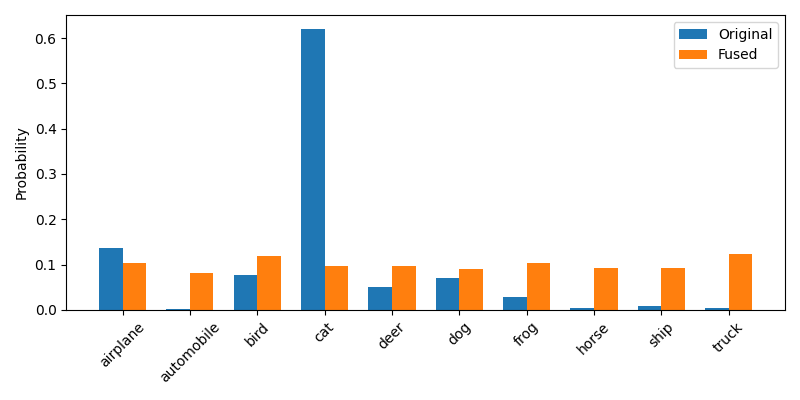
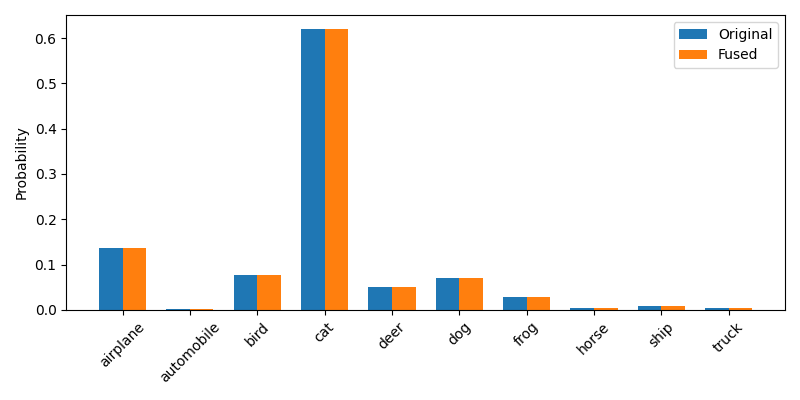
dfgh

diff --git a/main.py b/main.py
@@ -188,9 +188,7 @@ if args.save and 'ReLU' in args.model_type:
     BN = 'BN' in args.model_name
   
     
-    # test_input = np.random.rand(1, 32, 32, 3).astype(np.float32)
-    # original_output = model.predict(test_input,training=False)
-    # fused_output = fused_model.predict(test_input,training=False)
+ 
     test_input = (data.x_test[0:1] - data.p) / (data.q - data.p)
     original_output = model(test_input, training=False).numpy()
     fused_output    = fused_model(test_input, training=False).numpy()
@@ -200,9 +198,7 @@ if args.save and 'ReLU' in args.model_type:
     print("Original model output:", original_output)
     print("Fused model output:", fused_output)
     print("Max difference:", np.abs(original_output - fused_output).max())
-    from utils import fuse_bn_functional, verify_model_fusion
-    is_correct = verify_model_fusion(model, fused_model)
-    logging.info(f"Model fusion verified: {is_correct}")
+
 
     # import matplotlib.pyplot as plt
     # import numpy as np
@@ -259,50 +255,6 @@ if args.save and 'ReLU' in args.model_type:
 
 
 
-    import numpy as np
-    import matplotlib.pyplot as plt
-    import tensorflow as tf
-    import os
-
-    os.makedirs("layer_diffs", exist_ok=True)
-
-    idx = 0
-    test_input = np.expand_dims(data.x_test[idx], axis=0)
-
-    # Submodels for all layer outputs
-    orig_submodel = tf.keras.Model(inputs=model.input,
-                                  outputs=[l.output for l in model.layers])
-    fused_submodel = tf.keras.Model(inputs=fused_model.input,
-                                    outputs=[l.output for l in fused_model.layers])
-
-    orig_outputs = orig_submodel(test_input, training=False)
-    fused_outputs = fused_submodel(test_input, training=False)
-
-    diffs = []
-    layer_names = []
-    for o, f, l1, l2 in zip(orig_outputs, fused_outputs, model.layers, fused_model.layers):
-        if o.shape == f.shape:  # compare only if shapes match
-            diff = np.mean(np.abs(o.numpy() - f.numpy()))
-            diffs.append(diff)
-            layer_names.append(l1.name)
-        else:
-            print(f"Skipping {l1.name} vs {l2.name} due to shape mismatch: {o.shape} vs {f.shape}")
-
-    # Plot
-    plt.figure(figsize=(12, 4))
-    plt.plot(range(len(diffs)), diffs, marker='o')
-    plt.xticks(range(len(layer_names)), layer_names, rotation=90)
-    plt.xlabel("Layer name")
-    plt.ylabel("Mean absolute difference")
-    plt.title("Layer-by-Layer Difference (Original vs Fused)")
-    plt.tight_layout()
-    plt.savefig("layer_diffs/layer_diff_plot.png")
-    plt.close()
-
-    print("Saved plot to layer_diffs/layer_diff_plot.png")
-
-
-
 
 
 
@@ -315,55 +267,16 @@ if args.save and 'ReLU' in args.model_type:
 
 
 
-    # Test with normalized input
-    # sample = np.expand_dims(data.x_test[0], axis=0)  # Add batch dimension
-    # sample = np.expand_dims(data.x_test[0], axis=0)  # Add batch dimension
-    # output_original = model.predict(sample)
-    # output_fused = model1.predict(sample)
-
-    # def get_layer_outputs(model, input):
-    #     outputs = {}
-    #     x = input
-    #     for name, layer in model.named_children():  # Works for Sequential
-    #         x = layer(x)
-    #         outputs[name] = x.detach()  # Store output
-    #     return outputs
-    # def get_layer_outputs(model, input):
-    #     outputs = {}
-    #     x = input
-    #     for name, layer in model.named_children():  # Works for Sequential
-    #         x = layer(x)
-    #         outputs[name] = x.detach()  # Store output
-    #     return outputs
-
-    # # Get outputs for both models
-    # outputs_orig = get_layer_outputs(model, sample)
-    # outputs_fused = get_layer_outputs(model1, sample)
-    # # Get outputs for both models
-    # outputs_orig = get_layer_outputs(model, sample)
-    # outputs_fused = get_layer_outputs(model1, sample)
 
 
     # Check if outputs are close
     # print("Outputs close?", np.allclose(output_original, output_fused, atol=1e-6))
     # 2. Save preprocessed ReLU model.
-    model.save_weights(args.logging_dir + '/' + args.model_name + '_preprocessed.weights.h5')
+    model.save_weights(args.logging_dir + '/' + args.model_name + '_orginal.weights.h5')
+    fused_model.save_weights(args.logging_dir + '/' + args.model_name + '_fused_model.weights.h5')
     logging.info('saved preprocessed ReLU model')
-    if args.findMax:
-      # 3. Find maximum layer outputs.
-      logging.info('calculating maximum layer output...')
-      layer_num, X_n = 0, []
-      layers_max = []
-      for k, layer in enumerate(model.layers):
-          if 'conv' in layer.name or 'dense' in layer.name:
-              if k != len(model.layers) - 2:
-                  # Apply ReLU first
-                  relu_output = ReLU()(layer.output)
-                  
-                  # Wrap tf.reduce_max in a Lambda layer
-                  max_output = Lambda(lambda x: tf.reduce_max(x))(relu_output)
-                  
-                  layers_max.append(max_output)
+
+
     if args.findMax:
       # 3. Find maximum layer outputs.
       logging.info('calculating maximum layer output...')
